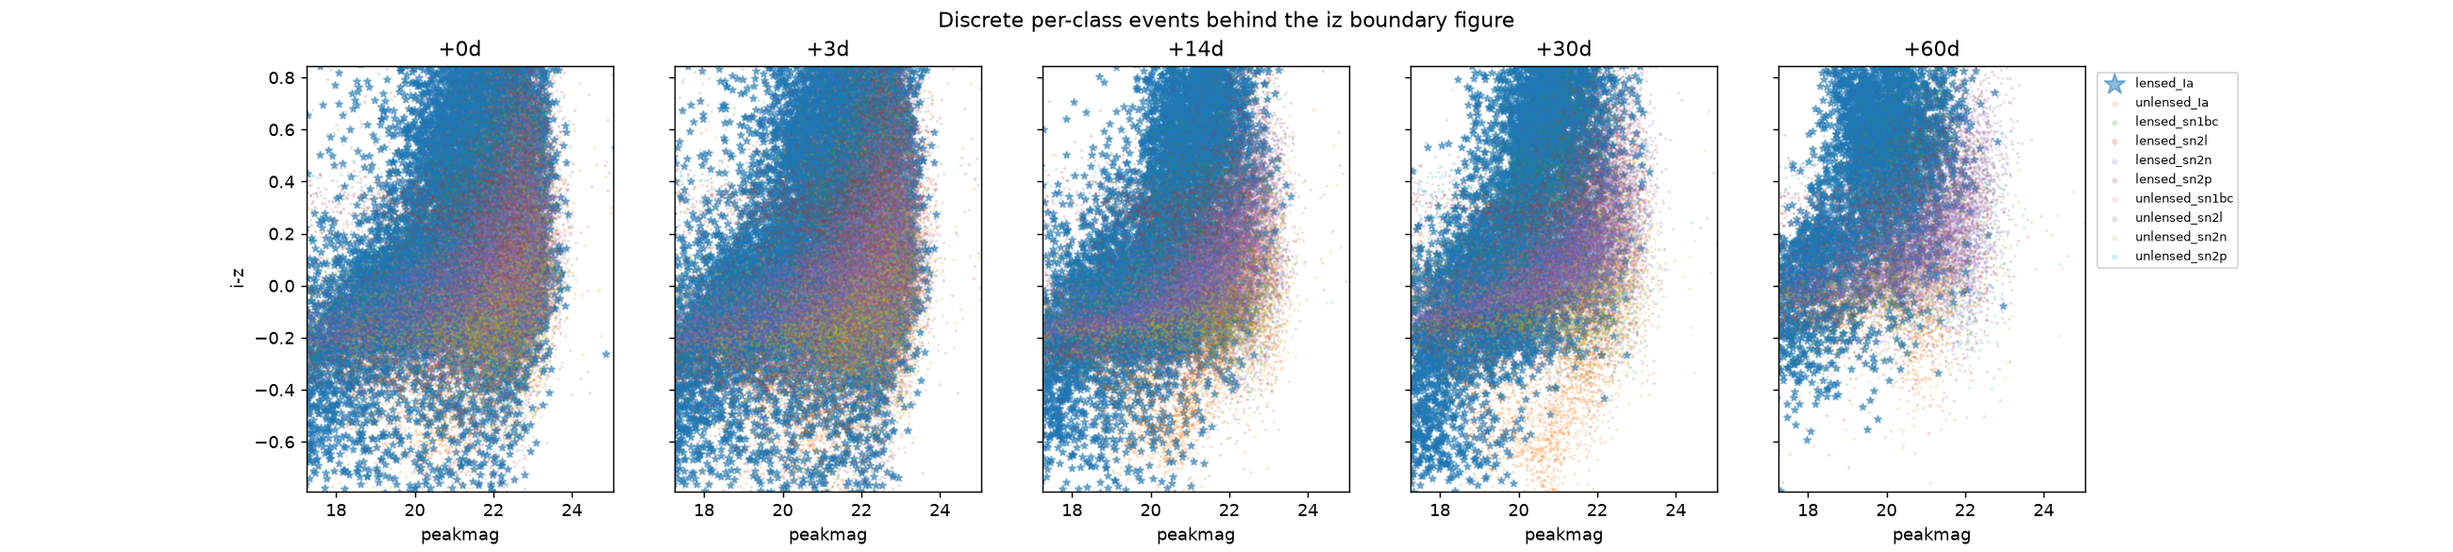
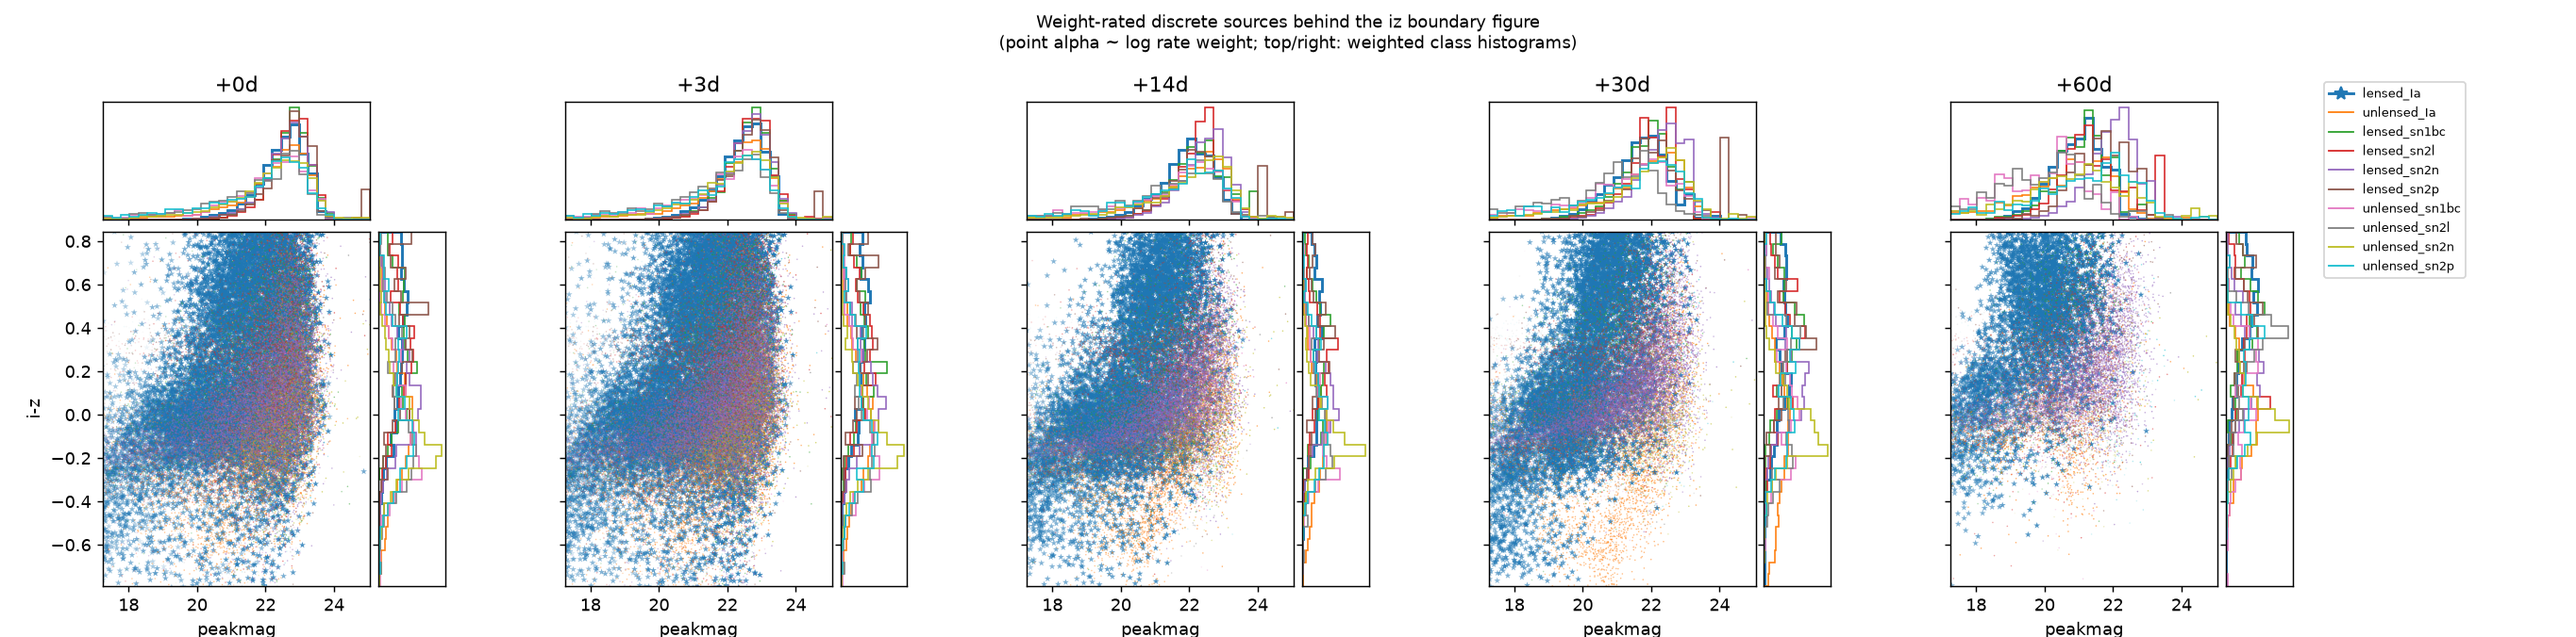
feat: weight-rate the discrete-source figures, add corner-plot marginals + combined heatmap view
The discrete per-class scatter companion to the boundary figures (added in
PR #23, weight-threaded in PR #25) still rendered every event at the same
alpha regardless of its rate weight -- inconsistent with the weighted
heatmap next to it, since real production weights span ~14 orders of
magnitude (e.g. lensed_Ia: 0 to 2.4e-7, ~45% of events below 0.1% of the
max). Implausible near-zero-weight outliers looked just as prominent as
the realistic bulk of the population.

- _weight_alpha(): maps each event's own weight to scatter alpha via a
  1st-99th percentile-clipped log10 scale (same robustness convention as
  cmsne.contours.robust_range) -- linear alpha-from-weight would make
  everything but the single heaviest point invisible.
- boundary_<pair>_sources.png is now a corner-plot-style figure: the
  weight-rated scatter plus weighted, density-normalised marginal
  histograms of every class above (magnitude) and to the right (colour).
- New boundary_<pair>_corner.png: the same corner layout with the already-
  fitted P(lensed Ia) posterior surface underlaid in the main panel, so the
  decision surface and the weighted sources it was fitted from read in one
  panel. compute_surfaces() fits each band pair's surfaces once and shares
  them between the heatmap-only and combined figures.

Regenerated all 10 output figures against the real production population
(job 58563115); boundary_<pair>.png (heatmap-only) is byte-unchanged.

diff --git a/scripts/plot_evolving_boundaries.py b/scripts/plot_evolving_boundaries.py
@@ -5,20 +5,40 @@ the trajectory's Δt-since-trigger grid (issue #18).
 added in PR #14) -- it has just never been run on real data or plotted. This
 script does both: loads a real dual-schema production population, fits one
 2-feature classifier per (band pair, grid step) via `posterior_surface`, and
-renders a 5-panel figure per band pair, plus a companion scatter of the
-discrete per-class events behind each boundary figure.
+renders three figures per band pair:
 
-`posterior_surface` is called directly rather than through `evolving_contours`
-so a single colour/magnitude axis range can be shared across all 5 panels in
-a figure -- otherwise each panel auto-scales to its own step's finite-value
-range (which drifts slightly step to step), making the boundary's motion
-hard to read side by side. The shared range is rate-weighted and percentile-
-based (`cmsne.contours.robust_range`, issue #24) rather than plain min/max,
-since a handful of near-zero-probability outliers (implausibly low-redshift,
-near-maximally-magnified lensed Ia draws) otherwise stretch the range so far
-that most of each panel shows empty extrapolation instead of real data
-density -- which is also where the classifier's axis-aligned, piecewise-
-constant decision surface looks most erratic.
+  - `boundary_<pair>.png` -- the P(lensed Ia) heatmap alone, one panel per
+    grid step.
+  - `boundary_<pair>_sources.png` -- a corner-plot-style companion: the
+    discrete per-class events behind the heatmap, weight-rated (each point's
+    alpha reflects its own rate weight, not just its class membership) plus
+    weighted marginal histograms of every class above (magnitude) and to the
+    right (colour).
+  - `boundary_<pair>_corner.png` -- the same corner layout, with the
+    posterior surface heatmap underlaid in each main panel.
+
+A class's discrete events are NOT uniformly realistic: `cmsne.multicolour`'s
+rate_weight() assigns per-event weights spanning many orders of magnitude
+(for the real production population behind these figures, lensed Ia weights
+range from 0 to ~2e-7, with roughly half the events below 0.1% of the
+maximum -- implausibly low-redshift, near-maximally-magnified draws that are
+essentially never realised). An earlier version of the sources figure
+scattered every event at the same alpha regardless of weight, which made it
+inconsistent with the (correctly weighted, since issue #24) heatmap next to
+it: outliers that the heatmap's fit all but ignores looked just as prominent
+as the realistic bulk of the population. `_weight_alpha` below fixes that by
+alpha-encoding each point from its own weight.
+
+`posterior_surface` is called directly (via `compute_surfaces`) rather than
+through `evolving_contours` so a single colour/magnitude axis range can be
+shared across all of a figure's panels -- otherwise each panel auto-scales
+to its own step's finite-value range (which drifts slightly step to step),
+making the boundary's motion hard to read side by side. The shared range is
+rate-weighted and percentile-based (`cmsne.contours.robust_range`, issue
+#24) rather than plain min/max, for the same outlier reason as above. Each
+band pair's posterior surfaces are fitted once (`compute_surfaces`) and
+reused by both the heatmap-only and the combined corner+heatmap figure, so
+the (expensive) classifier fit never runs twice for the same band pair.
 
 Axes follow the lensing-literature convention: magnitude on x, colour on y
 (not the stellar-CMD convention of colour on x, magnitude on y).
@@ -31,6 +51,7 @@ import numpy as np
 import matplotlib
 matplotlib.use('Agg')
 import matplotlib.pyplot as plt
+from matplotlib.lines import Line2D
 
 _ROOT = os.path.dirname(os.path.dirname(os.path.abspath(__file__)))
 sys.path.insert(0, _ROOT)
@@ -44,6 +65,8 @@ CLASSES = ['lensed_Ia', 'unlensed_Ia', 'lensed_sn1bc', 'lensed_sn2l', 'lensed_sn
 
 # Adjacent-colour pair keys in trajectory feature-name order, e.g. ('lsstu','lsstg') -> 'ug'.
 PAIR_KEYS = [f'{a[-1]}{b[-1]}' for a, b in ADJ_COLOURS]
+
+N_MARGINAL_BINS = 30
 
 
 def shared_ranges(signal, background, signal_weights, background_weights,
@@ -69,20 +92,28 @@ def shared_ranges(signal, background, signal_weights, background_weights,
     return robust_range(colours, weights), robust_range(mags, weights)
 
 
-def plot_boundary_evolution(signal, background, signal_weights, background_weights,
-                            pair_key, out_path, grid=TRAJECTORY_GRID, n=200):
-    colour_range, magnitude_range = shared_ranges(
-        signal, background, signal_weights, background_weights, pair_key, grid)
-
-    fig, axes = plt.subplots(1, len(grid), figsize=(4 * len(grid), 4.2), sharex=True, sharey=True)
-    mesh = None
-    for ax, day in zip(axes, grid):
+def compute_surfaces(signal, background, signal_weights, background_weights,
+                     pair_key, colour_range, magnitude_range, grid=TRAJECTORY_GRID, n=200):
+    """Fit one posterior_surface per grid step and cache the (cg, mg, pg)
+    grids, so every figure for this band pair reuses the same fit instead of
+    re-fitting the classifier per figure."""
+    surfaces = {}
+    for day in grid:
         suffix = _step_suffix(day)
         colour_key, magnitude_key = f'{pair_key}{suffix}', f'peakmag{suffix}'
         cg, mg, pg, _ = posterior_surface(
             signal, background, colour_key, magnitude_key,
             colour_range=colour_range, magnitude_range=magnitude_range, n=n,
             signal_weights=signal_weights, background_weights=background_weights)
+        surfaces[day] = (cg, mg, pg)
+    return surfaces
+
+
+def plot_boundary_evolution(surfaces, pair_key, out_path, grid=TRAJECTORY_GRID):
+    fig, axes = plt.subplots(1, len(grid), figsize=(4 * len(grid), 4.2), sharex=True, sharey=True)
+    mesh = None
+    for ax, day in zip(axes, grid):
+        cg, mg, pg = surfaces[day]
         # cg/mg/pg are laid out (magnitude varying along rows, colour along
         # columns) by posterior_surface's np.meshgrid(colour, magnitude) --
         # transpose all three together to put magnitude on x, colour on y
@@ -99,43 +130,155 @@ def plot_boundary_evolution(signal, background, signal_weights, background_weigh
     fig.colorbar(mesh, ax=axes, shrink=0.85, label='P(lensed Ia)')
     fig.savefig(out_path, dpi=150)
     plt.close(fig)
-    return colour_range, magnitude_range
 
 
-def plot_discrete_sources_by_class(pop, pair_key, out_path, colour_range, magnitude_range,
-                                   grid=TRAJECTORY_GRID):
-    """Scatter every class's discrete events (colour-coded) behind one
-    boundary figure's colour-magnitude axes.
-
-    Zoomed to the same ``colour_range``/``magnitude_range`` the boundary
-    figure used (from :func:`shared_ranges`), so the two are directly
-    comparable panel for panel -- not each auto-scaled to its own full data
-    extent, outliers included.
+def _weight_alpha(weights, alpha_range=(0.05, 0.9)):
+    """Map rate weights -- often spanning >10 orders of magnitude -- to a
+    per-point scatter alpha in alpha_range, via a 1st-99th percentile-clipped
+    log10 scale (the same percentile-robustness convention as
+    cmsne.contours.robust_range). A linear weight-to-alpha mapping would make
+    everything but the single heaviest point invisible.
     """
-    fig, axes = plt.subplots(1, len(grid), figsize=(4 * len(grid), 4.5), sharex=True, sharey=True)
+    w = np.asarray(weights, dtype=float)
+    wmax = np.nanmax(w) if w.size and np.isfinite(w).any() else 0.0
+    floor = wmax * 1e-20 if wmax > 0 else 1e-300
+    log_w = np.log10(np.clip(w, floor, None))
+    lo, hi = np.percentile(log_w, [1, 99])
+    if hi <= lo:
+        return np.full(w.shape, alpha_range[1])
+    frac = np.clip((log_w - lo) / (hi - lo), 0.0, 1.0)
+    return alpha_range[0] + frac * (alpha_range[1] - alpha_range[0])
+
+
+def _corner_panel(fig, outer_spec):
+    """One corner-plot cell: a main axes plus a top and right marginal axes
+    sharing its x/y, built from a single outer GridSpec cell."""
+    inner = outer_spec.subgridspec(2, 2, width_ratios=(4, 1), height_ratios=(1, 3),
+                                   wspace=0.05, hspace=0.05)
+    ax_main = fig.add_subplot(inner[1, 0])
+    ax_top = fig.add_subplot(inner[0, 0], sharex=ax_main)
+    ax_right = fig.add_subplot(inner[1, 1], sharey=ax_main)
+    ax_top.tick_params(labelbottom=False, labelleft=False, left=False)
+    ax_right.tick_params(labelleft=False, labelbottom=False, bottom=False)
+    return ax_main, ax_top, ax_right
+
+
+def _draw_weighted_sources(ax_main, ax_top, ax_right, pop, pair_key, day,
+                           colour_range, magnitude_range, colors,
+                           emphasize_signal_edge=False, zorder=1):
+    """Draw every class's weight-rated scatter onto ax_main, plus weighted,
+    density-normalised marginal histograms onto ax_top (magnitude) and
+    ax_right (colour)."""
+    suffix = _step_suffix(day)
+    colour_key, magnitude_key = f'{pair_key}{suffix}', f'peakmag{suffix}'
+    mag_bins = np.linspace(*magnitude_range, N_MARGINAL_BINS + 1)
+    colour_bins = np.linspace(*colour_range, N_MARGINAL_BINS + 1)
+
+    for i, c in enumerate(CLASSES):
+        events = pop[c]
+        colours = np.array([e.get(colour_key, np.nan) for e in events])
+        mags = np.array([e.get(magnitude_key, np.nan) for e in events])
+        weights = np.array([e['weight'] for e in events])
+        finite = np.isfinite(colours) & np.isfinite(mags)
+        colours, mags, weights = colours[finite], mags[finite], weights[finite]
+        if colours.size == 0:
+            continue
+        is_signal = c == 'lensed_Ia'
+        alphas = _weight_alpha(weights, alpha_range=(0.08, 0.9) if is_signal else (0.02, 0.6))
+        rgba = np.tile(colors[i], (len(alphas), 1))
+        rgba[:, 3] = alphas
+        edgecolors = 'black' if (is_signal and emphasize_signal_edge) else 'none'
+        ax_main.scatter(mags, colours, s=16 if is_signal else 3,
+                        marker='*' if is_signal else '.', c=rgba,
+                        edgecolors=edgecolors, linewidths=0.3,
+                        label=c, rasterized=True, zorder=zorder)
+        lw = 1.6 if is_signal else 0.9
+        ax_top.hist(mags, bins=mag_bins, weights=weights, density=True,
+                   histtype='step', color=colors[i], linewidth=lw)
+        ax_right.hist(colours, bins=colour_bins, weights=weights, density=True,
+                     histtype='step', orientation='horizontal', color=colors[i], linewidth=lw)
+
+    ax_main.set_xlim(*magnitude_range)
+    ax_main.set_ylim(*colour_range)
+    ax_main.set_xlabel('peakmag')
+    ax_top.set_title(f'+{day:.0f}d')
+
+
+def _class_legend_handles(colors):
+    return [Line2D([0], [0], color=colors[i],
+                   lw=1.6 if c == 'lensed_Ia' else 1.0,
+                   marker='*' if c == 'lensed_Ia' else None,
+                   markersize=8 if c == 'lensed_Ia' else 0)
+           for i, c in enumerate(CLASSES)]
+
+
+def plot_weighted_sources_corner(pop, pair_key, out_path, colour_range, magnitude_range,
+                                 grid=TRAJECTORY_GRID):
+    """Weight-rated corner-style companion to the boundary figure: for each
+    grid step, a main colour-magnitude scatter (per-point alpha from each
+    event's own rate weight, see _weight_alpha) plus weighted, density-
+    normalised marginal histograms of every class above (magnitude) and to
+    the right (colour).
+    """
+    fig = plt.figure(figsize=(4.2 * len(grid), 5.2))
+    outer = fig.add_gridspec(1, len(grid), wspace=0.35)
     colors = plt.cm.tab10(np.linspace(0, 1, len(CLASSES)))
 
-    for ax, day in zip(axes, grid):
-        suffix = _step_suffix(day)
-        colour_key, magnitude_key = f'{pair_key}{suffix}', f'peakmag{suffix}'
-        for i, c in enumerate(CLASSES):
-            events = pop[c]
-            colours = np.array([e.get(colour_key, np.nan) for e in events])
-            mags = np.array([e.get(magnitude_key, np.nan) for e in events])
-            finite = np.isfinite(colours) & np.isfinite(mags)
-            is_signal = c == 'lensed_Ia'
-            ax.scatter(mags[finite], colours[finite], s=18 if is_signal else 3,
-                      marker='*' if is_signal else '.', color=colors[i],
-                      alpha=0.5 if is_signal else 0.15, label=c, rasterized=True)
-        ax.set_title(f'+{day:.0f}d')
-        ax.set_xlabel('peakmag')
-        ax.set_xlim(*magnitude_range)
-        ax.set_ylim(*colour_range)
-    axes[0].set_ylabel(f'{pair_key[0]}-{pair_key[1]}')
-    axes[-1].legend(fontsize=7, markerscale=3, loc='upper left', bbox_to_anchor=(1.02, 1))
-    fig.suptitle(f'Discrete per-class events behind the {pair_key} boundary figure')
-    fig.subplots_adjust(right=0.85)
+    for col, day in enumerate(grid):
+        ax_main, ax_top, ax_right = _corner_panel(fig, outer[0, col])
+        _draw_weighted_sources(ax_main, ax_top, ax_right, pop, pair_key, day,
+                               colour_range, magnitude_range, colors)
+        if col == 0:
+            ax_main.set_ylabel(f'{pair_key[0]}-{pair_key[1]}')
+        else:
+            ax_main.tick_params(labelleft=False)
+
+    fig.legend(_class_legend_handles(colors), CLASSES, fontsize=7,
+              loc='upper left', bbox_to_anchor=(0.90, 0.88))
+    fig.suptitle(f'Weight-rated discrete sources behind the {pair_key} boundary figure\n'
+                f'(point alpha ~ log rate weight; top/right: weighted class histograms)',
+                fontsize=10)
+    fig.subplots_adjust(left=0.04, right=0.89, top=0.84, bottom=0.08)
     fig.savefig(out_path, dpi=130)
+    plt.close(fig)
+
+
+def plot_corner_with_heatmap(pop, surfaces, pair_key, out_path, colour_range, magnitude_range,
+                             grid=TRAJECTORY_GRID):
+    """Same corner layout as plot_weighted_sources_corner, with the already-
+    fitted P(lensed Ia) posterior surface (from compute_surfaces -- not
+    re-fitted here) underlaid in each main panel beneath the weighted
+    scatter, so the decision surface and the weighted sources it was fitted
+    from read together in one panel.
+    """
+    fig = plt.figure(figsize=(4.2 * len(grid), 5.2))
+    outer = fig.add_gridspec(1, len(grid), wspace=0.35)
+    colors = plt.cm.tab10(np.linspace(0, 1, len(CLASSES)))
+    mesh = None
+    main_axes = []
+
+    for col, day in enumerate(grid):
+        ax_main, ax_top, ax_right = _corner_panel(fig, outer[0, col])
+        cg, mg, pg = surfaces[day]
+        mesh = ax_main.contourf(mg.T, cg.T, pg.T, levels=20, cmap='viridis', vmin=0, vmax=1, zorder=0)
+        ax_main.contour(mg.T, cg.T, pg.T, levels=[0.5], colors='white', linewidths=1.0, zorder=1)
+        _draw_weighted_sources(ax_main, ax_top, ax_right, pop, pair_key, day,
+                               colour_range, magnitude_range, colors,
+                               emphasize_signal_edge=True, zorder=2)
+        main_axes.append(ax_main)
+        if col == 0:
+            ax_main.set_ylabel(f'{pair_key[0]}-{pair_key[1]}')
+        else:
+            ax_main.tick_params(labelleft=False)
+
+    cax = fig.add_axes((0.91, 0.55, 0.012, 0.28))
+    fig.colorbar(mesh, cax=cax, label='P(lensed Ia)')
+    fig.legend(_class_legend_handles(colors), CLASSES, fontsize=7,
+              loc='upper left', bbox_to_anchor=(0.91, 0.42))
+    fig.suptitle(f'P(lensed Ia) heatmap + weight-rated discrete sources -- '
+                f'{pair_key[0]}-{pair_key[1]} colour, evolution since trigger', fontsize=10)
+    fig.subplots_adjust(left=0.04, right=0.89, top=0.84, bottom=0.08)
+    fig.savefig(out_path, dpi=140)
     plt.close(fig)
 
 
@@ -161,17 +304,26 @@ def main():
     for pair_key in PAIR_KEYS:
         boundary_path = os.path.join(args.out_dir, f'boundary_{pair_key}.png')
         sources_path = os.path.join(args.out_dir, f'boundary_{pair_key}_sources.png')
+        corner_path = os.path.join(args.out_dir, f'boundary_{pair_key}_corner.png')
         print(f'fitting {pair_key} ({len(TRAJECTORY_GRID)} grid steps)...')
         try:
-            colour_range, magnitude_range = plot_boundary_evolution(
-                signal, background, signal_weights, background_weights,
-                pair_key, boundary_path, n=args.n)
+            colour_range, magnitude_range = shared_ranges(
+                signal, background, signal_weights, background_weights, pair_key)
         except ValueError as exc:
             print(f'skipping {pair_key}: {exc}')
             continue
+
+        surfaces = compute_surfaces(signal, background, signal_weights, background_weights,
+                                    pair_key, colour_range, magnitude_range, n=args.n)
+
+        plot_boundary_evolution(surfaces, pair_key, boundary_path)
         print(f'wrote {boundary_path}')
-        plot_discrete_sources_by_class(pop, pair_key, sources_path, colour_range, magnitude_range)
+
+        plot_weighted_sources_corner(pop, pair_key, sources_path, colour_range, magnitude_range)
         print(f'wrote {sources_path}')
+
+        plot_corner_with_heatmap(pop, surfaces, pair_key, corner_path, colour_range, magnitude_range)
+        print(f'wrote {corner_path}')
 
 
 if __name__ == '__main__':
